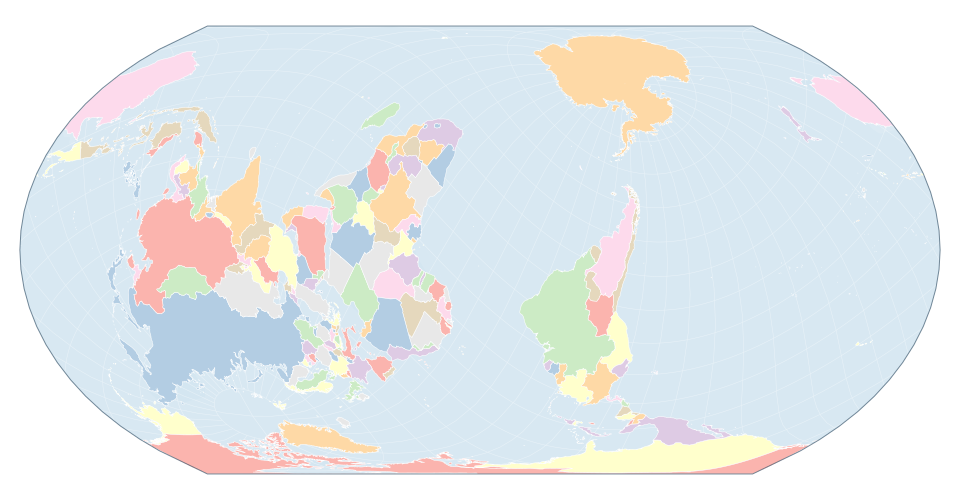
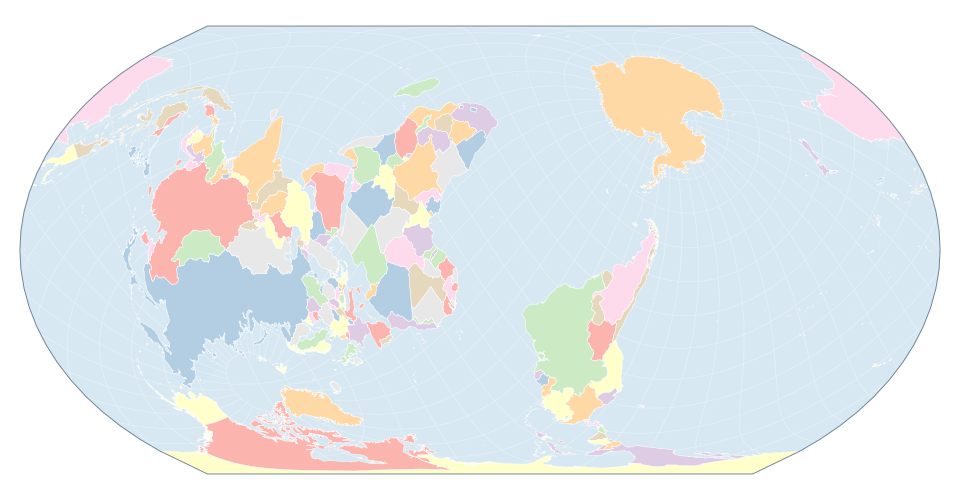
feat: tune the default opening view to [10, 6, 131]
A slightly shallower turn than [12, 12, 144], still centred in the South
Atlantic with Africa inverted in the middle, and still genuinely oblique —
yaw and pitch are both non-zero, so the projection's frame stays tilted away
from the graticule rather than collapsing back to a plain flip.

The asserted default, the doc comment, the README prose and both README stills
move with it, so nothing claims 12°W 12°S any more.

diff --git a/src/components/equal-earth-element.js b/src/components/equal-earth-element.js
@@ -27,8 +27,8 @@ import {createInfoBadge} from "./info-badge.js";
 export const TAG = "equal-earth-map";
 
 /**
- * Where the opening turn ends: an oblique view centred near 12°W 12°S and
- * rolled 144°, which lands Africa in the middle and upside down.
+ * Where the opening turn ends: an oblique view centred near 10°W 6°S and
+ * rolled 131°, which lands Africa in the middle and upside down.
  *
  * Deliberately oblique rather than merely inverted. A plain 180° roll is still
  * the *normal* aspect with the page turned over — the parallels stay straight
@@ -36,7 +36,7 @@ export const TAG = "equal-earth-map";
  * projection's own frame away from the graticule, which is the thing this
  * project exists to show, and it is visible immediately in the curved grid.
  */
-export const DEFAULT_ROTATION = [12, 12, 144];
+export const DEFAULT_ROTATION = [10, 6, 131];
 
 /**
  * Where the opening drift starts: the north-up, Atlantic-centred view everyone

diff --git a/scripts/snapshot.js b/scripts/snapshot.js
@@ -44,8 +44,8 @@ const named = (name) => ALL_VIEWS.find((v) => v.name === name);
 
 const shots = [
   // The opening view: Greenwich front, upside down. Mirrors INITIAL_ROTATION.
-  {name: "00-opening-view", rotate: [12, 12, 144]},
-  {name: "00b-default-final-dark", rotate: [12, 12, 144], theme: "dark"},
+  {name: "00-opening-view", rotate: [10, 6, 131]},
+  {name: "00b-default-final-dark", rotate: [10, 6, 131], theme: "dark"},
   // The two stills used in the README.
   {name: "readme-light", rotate: [-10, -25, 0], theme: "light"},
   {name: "readme-dark", rotate: [-10, -25, 0], theme: "dark"},

diff --git a/test/embed.test.js b/test/embed.test.js
@@ -508,7 +508,7 @@ describe("the axis controls", () => {
 
 describe("the default opening view", () => {
   test("is the documented oblique orientation", () => {
-    expect(DEFAULT_ROTATION).toEqual([12, 12, 144]);
+    expect(DEFAULT_ROTATION).toEqual([10, 6, 131]);
   });
 
   test("is genuinely oblique, not merely upside down", () => {

diff --git a/README.md b/README.md
@@ -2,7 +2,7 @@
 
 An equal-area world map you re-centre by **rotating the globe**, not by zooming.
 It opens on the familiar north-up view and then **turns**, settling on an
-oblique orientation — centred near 12°W 12°S and rolled 144°, which puts Africa
+oblique orientation — centred near 10°W 6°S and rolled 131°, which puts Africa
 in the middle and upside down. That one movement is the argument: the view you
 know is an orientation, not a fact. Watch the graticule curve as it goes; that
 is the projection's own frame tilting away from the Earth's, which a simple
@@ -99,7 +99,7 @@ import {mount} from "/equal-earth.js";
 const controller = await mount(document.querySelector("#map"), {
   dataBase: "/equal-earth-data",
   theme: "dark",            // "auto" | "light" | "dark"
-  rotation: [12, 12, 144],  // where the opening turn ends
+  rotation: [10, 6, 131],   // where the opening turn ends
   intro: true,              // false to skip the opening turn
   introDuration: 4000
 });
